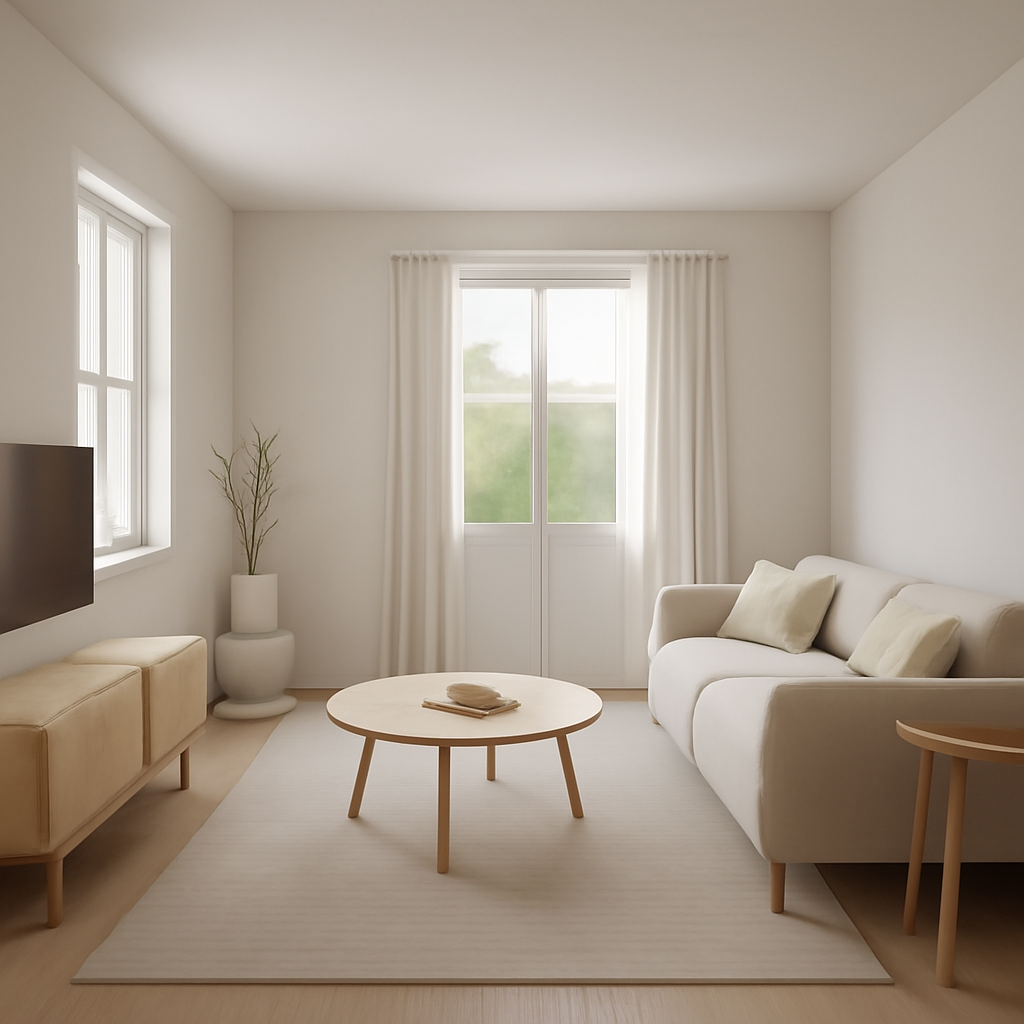
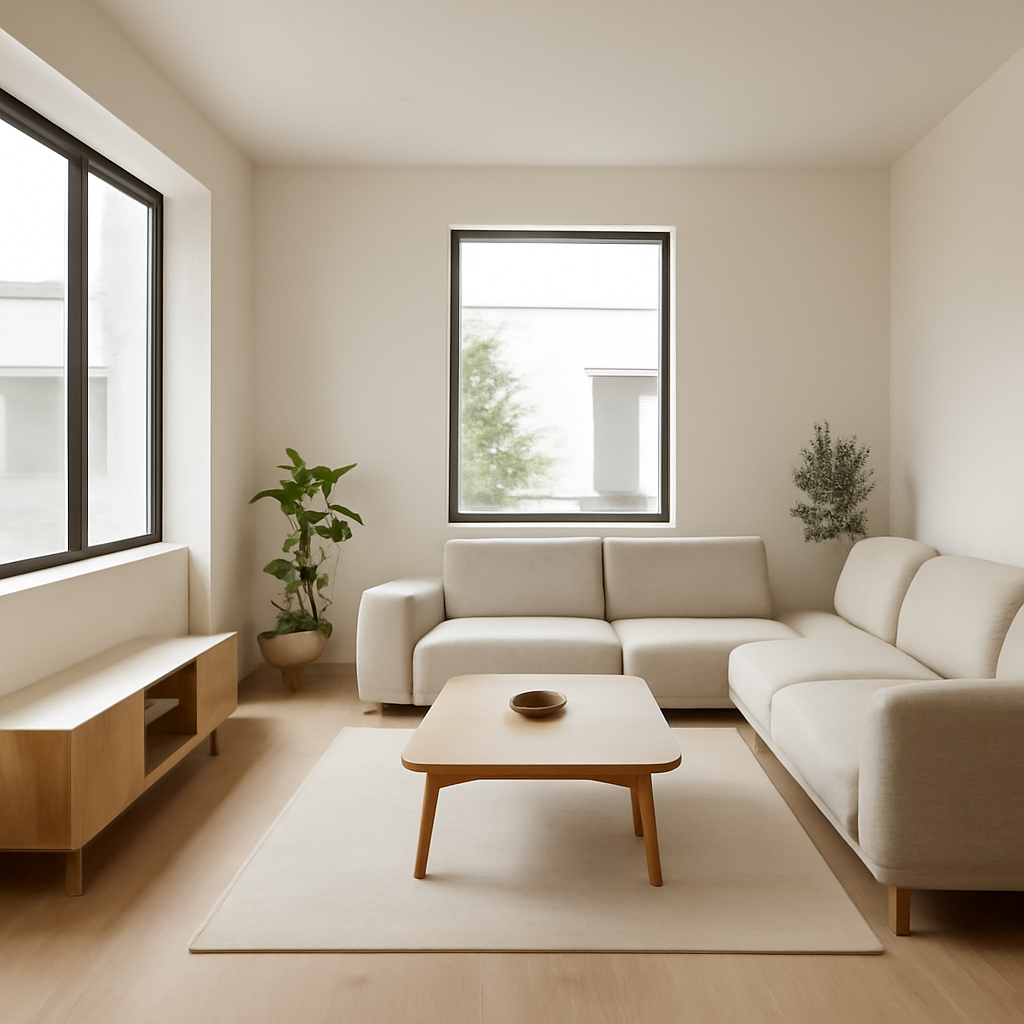
Add images

diff --git a/lib/agent.py b/lib/agent.py
@@ -118,7 +118,7 @@ async def run_agent(design_style: str, floorplan_image: str):
           f.write(base64.b64decode(img_result))
           image_paths.append(f"output/generated_image_{image_count}.png")
           image_count += 1
-          open_file(f"output/generated_image_{image_count}.png")
+          #open_file(f"output/generated_image_{image_count}.png")
 
     return {
       "image_paths": image_paths,

diff --git a/main.py b/main.py
@@ -7,7 +7,7 @@ load_dotenv()
 
 async def main():
 
-  result = await run_agent("1920s Art Deco", "example.jpg")
+  result = await run_agent("Estilo minimalista moderno com tons de mandeira", "floorplan.png")
 
   print("Final output:", result["final_output"])
   print("Image paths:", result["image_paths"])
